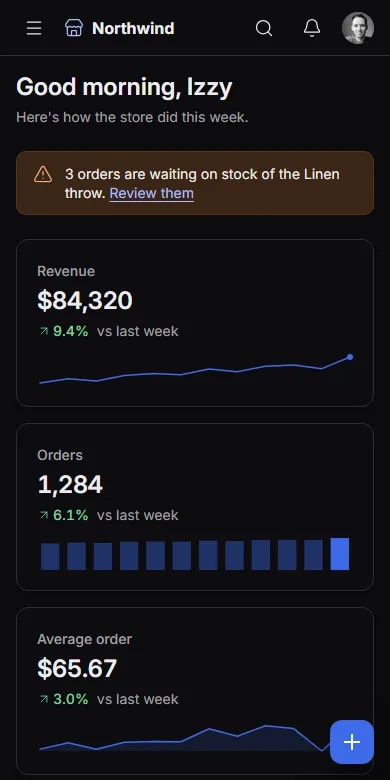
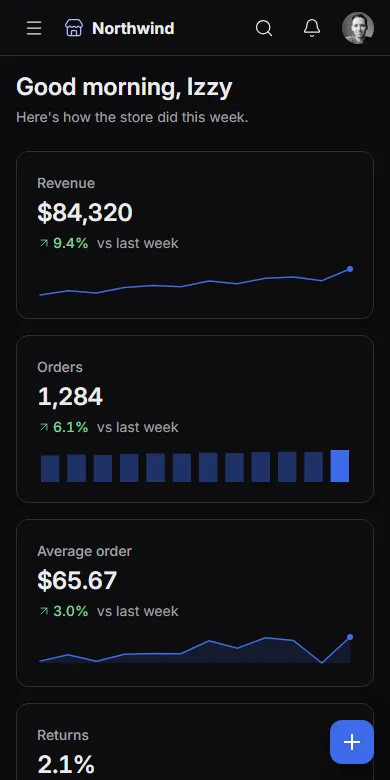
Docs site header and home hero to the design (D3, D4 option A)
Header: no version beside the logo; areas 40px after the wordmark;
search, then 8px to GitHub, 4px to the scheme switch. The version moves
to a VersionMenu at the top of the docs and demos sidebars (current
release, Changelog to the GitHub releases).

Home hero: one centered column (headline, subhead, buttons, install
command, version line with Release notes) over the demo, whose window
spans the page at up to 0.9 scale with the phone over its lower start
corner, both cut off by the hero's end; their pages scroll inside the
frames. Rings centered on the headline, fading before the hero's top.
The demo label links to the code. On phones the command scrolls on its
own so the copy button stays in view. The store dashboard drops its
stock alert; posters retaken.

diff --git a/site/IzzyBlazor.Site/wwwroot/site.css b/site/IzzyBlazor.Site/wwwroot/site.css
@@ -43,31 +43,43 @@
   background: light-dark(#f5f4f1, #14161a);
   border-block-end: 1px solid light-dark(#e4e1da, transparent);
 }
+/* 40px above on phones, 68px on wide screens (between the spacing scale's 64px and 72px);
+   below, the phone gets room to end, and on wide screens the demo runs into the hero's end. */
+.site-hero { --site-hero-top: 2.5rem; padding-block: var(--site-hero-top) 3.5rem; }
+@media (min-width: 64rem) { .site-hero { --site-hero-top: 4.25rem; padding-block-end: 0; } }
 .site-hero-grid {
   position: relative;
   z-index: 1;
-  display: grid;
-  grid-template-columns: minmax(0, 1fr);
-  gap: var(--ib-space-12);
+  display: flex;
+  flex-direction: column;
   align-items: center;
+  gap: var(--ib-space-10);
 }
-/* The knob as a watermark: Ember alone, the rings adding up to about a quarter at the center in
-   light mode, over a third in dark. Its center sits in the gap between the text and the app, 6rem
-   above the wordmark, so the core clears the text, the app window covers part of the rings, and it
-   lands in the same place at any width. On narrow screens, with the text alone above the phone,
-   it moves to the top end corner. */
-.site-hero-intro { position: relative; }
+.site-hero-intro {
+  position: relative;
+  display: flex;
+  flex-direction: column;
+  align-items: center;
+  width: 100%;
+  max-width: 47.5rem;
+  text-align: center;
+}
+/* The knob as a watermark behind the headline: Ember alone, the rings adding up to about a quarter
+   at the center in light mode, over a third in dark, centered on the headline's top so the
+   header doesn't cut through them. */
 .site-hero-glow {
   position: absolute;
   z-index: -1;
-  top: -6rem;
-  left: calc(100% + 3rem);
-  width: 44rem;
-  height: 44rem;
+  top: 0;
+  left: 50%;
+  width: 36rem;
+  height: 36rem;
   translate: -50% -50%;
   /* The rings are drawn at dark mode's strength; on Paper two thirds of it is enough. On Ink, less
      than that mixes Ember to brown. */
   opacity: var(--site-hero-glow);
+  /* The rings reach above the hero's top edge: they fade out before it, so no line cuts them. */
+  mask-image: linear-gradient(to bottom, transparent calc(50% - var(--site-hero-top)), #000 calc(50% + 1.5rem));
   pointer-events: none;
 }
 /* The hero's light and dark: the glow's strength and the frames' pictures (below). The scheme is
@@ -92,23 +104,88 @@
   }
 }
 @media (max-width: 63.98rem) {
-  .site-hero-glow { top: -2rem; left: auto; right: -14rem; width: 32rem; height: 32rem; translate: 0 -50%; }
+  .site-hero-glow { width: 28rem; height: 28rem; }
 }
 
-.site-hero-intro .site-logo { height: 2.25rem; align-self: flex-start; }
-.site-hero-title {
+/* 72px on wide screens, about 35px on phones (clear of the edges, two lines): the library's
+   largest heading size is 60px. */
+.site-hero-title.site-hero-title {
   font-family: "Bricolage Grotesque", var(--ib-font-heading);
+  font-size: clamp(2rem, 9.6vw - 0.1rem, 4.5rem);
   font-weight: 700;
-  letter-spacing: -0.02em;
+  line-height: 1.04;
+  letter-spacing: -0.03em;
   color: light-dark(#14161a, #f5f4f1);
 }
 /* A deeper Ember on Paper, as the brand's light hero has it: Ember itself is too faint there. */
 .site-hero-title span { color: light-dark(#e0590f, #f26a1b); }
-.site-hero .site-install { background: light-dark(#fff, #1b1d22); border-color: light-dark(#d6d3cc, #2c2f36); }
+.site-hero-sub { max-width: 34em; margin-block-start: 1.375rem; }
+.site-hero-actions { display: flex; gap: var(--ib-space-3); margin-block-start: var(--ib-space-8); }
+.site-hero .site-install { margin-block-start: var(--ib-space-5); background: light-dark(#fff, #1b1d22); border-color: light-dark(#d6d3cc, #2c2f36); }
+.site-hero-version {
+  display: flex;
+  align-items: center;
+  gap: var(--ib-space-2);
+  margin: 0.875rem 0 0;
+  font-size: var(--ib-text-sm);
+  color: var(--ib-color-muted);
+}
+.site-hero-version > span:first-child { font-weight: 600; color: var(--ib-color-on-surface); }
+/* Standalone links: an arrow, no underline until hover. Release notes in Ember, the hero's one
+   accent; See the code in the text color, inside the muted label. */
+.site-hero-action { display: inline-flex; align-items: center; gap: var(--ib-space-1); font-weight: 500; }
+.site-hero-action .ib-icon { width: 0.875rem; height: 0.875rem; }
+.site-hero-version .site-hero-action { color: var(--site-ember-text); }
+.site-hero-live .site-hero-action { color: var(--ib-color-on-surface); }
+@media (max-width: 63.98rem) {
+  /* Phones and tablets: the buttons and the command full width, the main button first. */
+  .site-hero-actions { flex-direction: column; align-self: stretch; }
+  .site-hero .site-install { align-self: stretch; width: auto; }
+}
+@media (max-width: 63.98rem) {
+  /* The command never wraps: should it not fit, it scrolls on its own, fading at the edge, while
+     the $ and the copy button stay in view. */
+  .site-hero .site-install { overflow: hidden; }
+  .site-hero .site-install code {
+    flex: 1 1 auto;
+    min-width: 0;
+    overflow-x: auto;
+    scrollbar-width: none;
+    text-align: start;
+    mask-image: linear-gradient(to right, #000 calc(100% - 1.5rem), transparent);
+  }
+  .site-hero .site-install > :last-child { flex: none; }
+}
+@media (max-width: 26rem) {
+  .site-hero .site-install code { font-size: 0.78rem; }
+}
+
+/* The demo under the text: its label, then the frames. */
+.site-hero-demo { display: flex; flex-direction: column; align-items: center; gap: 0.875rem; width: 100%; }
+.site-hero-live {
+  display: inline-flex;
+  align-items: center;
+  gap: var(--ib-space-2);
+  margin: 0;
+  padding: var(--ib-space-1) var(--ib-space-3);
+  border: 1px solid light-dark(#d6d3cc, #2c2f36);
+  border-radius: 999px;
+  background: light-dark(#fff, #1b1d22);
+  font-size: var(--ib-text-xs);
+  color: var(--ib-color-muted);
+  white-space: nowrap;
+}
+@media (max-width: 26rem) {
+  .site-hero-live { gap: 0.375rem; padding-inline: 0.625rem; }
+}
+/* Narrow phones: the link goes under the rest rather than past the screen's edge. */
+@media (max-width: 23rem) {
+  .site-hero-live { flex-wrap: wrap; justify-content: center; row-gap: 0; border-radius: var(--ib-radius-lg); }
+}
+.site-hero-live i { width: .5rem; height: .5rem; border-radius: 50%; background: #2f9e44; }
 
 /* The app's frames lay out at a desktop's and a phone's width and are scaled down by --s, as a
-   picture would be, so the whole app shows and nothing that takes focus is cut off. Negative
-   margins give back the space the scale takes away. */
+   picture would be. Negative margins give back the space the scale takes away. */
 .site-hero-stage { --s: 0.75; position: relative; display: flex; justify-content: center; }
 .site-hero-stage iframe {
   display: block;
@@ -120,10 +197,11 @@
    fonts arrive. So a picture of it (HomePosterTests takes them) shows in its place, and the frame
    stays invisible until site.js marks it ready (loaded, with the page's scheme), then fades in
    over the picture in one step. Should site.js not run, the frame shows after 4s anyway; with
-   JavaScript off it shows as it paints. */
+   JavaScript off it shows as it paints. The pictures are whole pages, so a frame the hero cuts
+   off shows their top. */
 .site-hero-screen {
   overflow: hidden;
-  background: var(--ib-color-background) var(--site-hero-poster) 0 0 / 100% 100% no-repeat;
+  background: var(--ib-color-background) var(--site-hero-poster) 0 0 / 100% auto no-repeat;
 }
 .site-hero-phone .site-hero-screen { border-radius: 1.5rem; }
 @media (scripting: enabled) {
@@ -150,24 +228,20 @@
 .site-hero-window {
   position: relative;
   overflow: hidden;
-  width: calc(1280px * var(--s) + 2px);
   border: 1px solid light-dark(#d6d3cc, #2c2f36);
   border-radius: var(--ib-radius-lg);
   background: light-dark(#ebe9e4, #1b1d22);
-  box-shadow: 0 1.5rem 4rem -1rem light-dark(rgb(20 22 26 / 0.18), rgb(0 0 0 / 0.7));
+  box-shadow: 0 0.125rem 0.375rem light-dark(rgb(20 22 26 / 0.06), rgb(0 0 0 / 0.3)), 0 1.875rem 5rem -0.5rem light-dark(rgb(20 22 26 / 0.22), rgb(0 0 0 / 0.6));
 }
 /* Focus in the desktop window brings it above the phone, so nothing focused there is covered. */
 .site-hero-window:focus-within { z-index: 2; }
-.site-hero-window iframe {
-  width: 1280px;
-  height: 940px;
-  margin: 0 calc(1280px * (var(--s) - 1)) calc(940px * (var(--s) - 1)) 0;
-}
 .site-hero-window-bar {
   display: flex;
+  flex: none;
   align-items: center;
   gap: var(--ib-space-4);
-  padding: var(--ib-space-2) var(--ib-space-3);
+  height: 2.25rem;
+  padding-inline: var(--ib-space-3);
   border-bottom: 1px solid light-dark(#d6d3cc, #2c2f36);
 }
 .site-hero-window-dots { display: flex; gap: 0.375rem; }
@@ -186,35 +260,56 @@
   white-space: nowrap;
 }
 @media (min-width: 64rem) {
-  /* Text beside the app: the desktop window, with the phone over its lower start corner. The
-     grid runs past the container to 1.5rem from the window's end, so the app gets the room. */
-  .site-hero-grid {
-    grid-template-columns: minmax(0, 26rem) minmax(0, 1fr);
-    gap: var(--ib-space-12);
+  /* The window as wide as the page, scaled by --w (1280px wide at 1), with the phone over its lower
+     start corner; both run into the hero's end, which cuts them off 600px down at full size (the
+     stat cards and the top of the chart show). Their pages scroll inside the frames, so whatever
+     takes focus further down scrolls into view there. */
+  .site-hero-grid { gap: var(--ib-space-14); }
+  .site-hero-stage { --w: 0.68; container: hero-stage / inline-size; display: block; width: 100%; max-width: calc(1152px + 2px); }
+  .site-hero-window {
+    --s: var(--w);
+    display: flex;
+    flex-direction: column;
+    height: calc(600px * var(--w));
+    border-block-end: 0;
+    border-end-start-radius: 0;
+    border-end-end-radius: 0;
   }
-  .site-hero-stage { --s: 0.5; container: hero-stage / inline-size; display: block; padding-block-end: 5rem; padding-inline-start: 3rem; }
-  .site-hero-window { --s: 0.3; display: block; }
-  .site-hero-phone { position: absolute; left: 0; bottom: 0; }
+  .site-hero-window .site-hero-screen { flex: 1 1 auto; min-height: 0; }
+  .site-hero-window iframe {
+    width: 1280px;
+    height: calc(600px - 2.25rem / var(--w));
+    margin: 0 calc(1280px * (var(--s) - 1)) calc((600px - 2.25rem / var(--w)) * (var(--s) - 1)) 0;
+  }
+  .site-hero-phone {
+    --s: calc(0.62 * var(--w));
+    position: absolute;
+    left: -1.75rem;
+    top: calc(263px * var(--w));
+    padding-block-end: 0;
+    border-end-start-radius: 0;
+    border-end-end-radius: 0;
+  }
+  .site-hero-phone .site-hero-screen { border-end-start-radius: 0; border-end-end-radius: 0; }
+  .site-hero-phone iframe {
+    height: calc((337px * var(--w) - 0.5rem) / var(--s));
+    margin-block-end: calc((337px * var(--w) - 0.5rem) / var(--s) * (var(--s) - 1));
+  }
 }
-@media (min-width: 80rem) {
-  .site-hero-grid { grid-template-columns: minmax(0, 28rem) minmax(0, 1fr); gap: var(--ib-space-16); }
-  .site-hero-stage { --s: 0.62; }
-}
-/* The window as wide as the column lets it be: its 1280px times --s (the container is the stage's
-   content box, after the phone's 3rem). */
-@container hero-stage (min-width: 440px) { .site-hero-window { --s: 0.34; } }
-@container hero-stage (min-width: 500px) { .site-hero-window { --s: 0.38; } }
-@container hero-stage (min-width: 560px) { .site-hero-window { --s: 0.43; } }
-@container hero-stage (min-width: 620px) { .site-hero-window { --s: 0.48; } }
-@container hero-stage (min-width: 680px) { .site-hero-window { --s: 0.52; } }
-@container hero-stage (min-width: 740px) { .site-hero-window { --s: 0.57; } }
-@container hero-stage (min-width: 800px) { .site-hero-window { --s: 0.62; } }
-@container hero-stage (min-width: 860px) { .site-hero-window { --s: 0.67; } }
-@container hero-stage (min-width: 920px) { .site-hero-window { --s: 0.71; } }
-@container hero-stage (min-width: 980px) { .site-hero-window { --s: 0.76; } }
-@container hero-stage (min-width: 1040px) { .site-hero-window { --s: 0.81; } }
-@container hero-stage (min-width: 1100px) { .site-hero-window { --s: 0.85; } }
-@container hero-stage (min-width: 1160px) { .site-hero-window { --s: 0.9; } }
+/* --w: the window's scale: as wide as the stage lets it be, 0.9 at most. */
+@container hero-stage (min-width: 880px) { .site-hero-stage > * { --w: 0.68; } }
+@container hero-stage (min-width: 904px) { .site-hero-stage > * { --w: 0.70; } }
+@container hero-stage (min-width: 928px) { .site-hero-stage > * { --w: 0.72; } }
+@container hero-stage (min-width: 952px) { .site-hero-stage > * { --w: 0.74; } }
+@container hero-stage (min-width: 976px) { .site-hero-stage > * { --w: 0.76; } }
+@container hero-stage (min-width: 1000px) { .site-hero-stage > * { --w: 0.77; } }
+@container hero-stage (min-width: 1024px) { .site-hero-stage > * { --w: 0.79; } }
+@container hero-stage (min-width: 1048px) { .site-hero-stage > * { --w: 0.81; } }
+@container hero-stage (min-width: 1072px) { .site-hero-stage > * { --w: 0.83; } }
+@container hero-stage (min-width: 1096px) { .site-hero-stage > * { --w: 0.85; } }
+@container hero-stage (min-width: 1120px) { .site-hero-stage > * { --w: 0.87; } }
+@container hero-stage (min-width: 1144px) { .site-hero-stage > * { --w: 0.89; } }
+@container hero-stage (min-width: 1154px) { .site-hero-stage > * { --w: 0.9; } }
 
 .site-install { background: #1b1d22; border-color: #2c2f36; }
 .site-install {
@@ -372,9 +467,6 @@
 
 /* The hero's frames are live: a label says so. */
 /* Above the app: centered over the phone, then at the window's start once the window shows. */
-.site-hero-live { position: absolute; z-index: 2; top: -2.25rem; left: 50%; transform: translateX(-50%); white-space: nowrap; display: inline-flex; align-items: center; gap: var(--ib-space-2); padding: var(--ib-space-1) var(--ib-space-3); border: 1px solid light-dark(#d6d3cc, #2c2f36); border-radius: 999px; background: light-dark(#fff, #1b1d22); font-size: var(--ib-text-xs); color: var(--ib-color-muted); }
-.site-hero-live i { width: .5rem; height: .5rem; border-radius: 50%; background: #2f9e44; }
-@media (min-width: 64rem) { .site-hero-live { left: 3rem; transform: none; } }
 
 .site-media { position: relative; }
 /* The homepage's mode pictures, a fifth shorter: the drawing's middle. */
@@ -719,7 +811,7 @@ html:has(> body > .frame) body { margin: 0; }
 
 /* The header's search button: room for the word and the shortcut, which shows only with script
    (it needs site.js); its box stays without, so the button is one width either way. */
-.site-search-button { min-width: 12rem; justify-content: flex-start; color: var(--ib-color-muted); font-weight: 400; }
+.site-search-button { width: 15rem; justify-content: flex-start; color: var(--ib-color-muted); font-weight: 400; }
 .site-search-button .ib-btn-label { display: flex; flex: 1 1 auto; align-items: center; justify-content: space-between; gap: var(--ib-space-2); }
 @media (scripting: none) {
   .site-search-key { visibility: hidden; }
@@ -765,9 +857,19 @@ html:has(> body > .frame) body { margin: 0; }
   .site-search-foot { display: none; }
 }
 
-/* The header: the version tag after the logo, then the areas, about 20px on. */
-.site-version { margin-inline-start: calc(-1 * var(--ib-space-1)); }
-.site-header-nav { margin-inline-start: var(--ib-space-3); }
+/* The header: the areas start 40px after the wordmark, so the brand reads apart from the four links
+   (24px apart); at the end, search, then 8px to GitHub, then 4px to the scheme switch. */
+/* SiteNav itself has no box (display: contents): the gap goes on its bar. Header gap 12px + item
+   padding 12px + 16px = 40px. */
+.site-header-nav > .ib-site-nav-bar { margin-inline-start: var(--ib-space-4); }
+
+/* The version, at the top of the docs and demos sidebars: the version and "Latest" at the start of
+   the button, the chevron at its end; in the menu, "Latest" muted at the end of its item. */
+.site-version-trigger { justify-content: space-between; margin-block-end: var(--ib-space-3); }
+.site-version-trigger .ib-btn-label { display: flex; flex: 1 1 auto; align-items: center; gap: var(--ib-space-2); }
+.site-version-text { font-weight: 600; }
+.site-version-menu .ib-menu-label { display: flex; flex: 1 1 auto; align-items: center; gap: var(--ib-space-2); }
+.site-version-note { margin-inline-start: auto; font-size: var(--ib-text-xs); color: var(--ib-color-muted); }
 
 /* A filter row (the Blocks and Components indexes): the filters at the start, the count at the end. */
 .site-filter-row {
